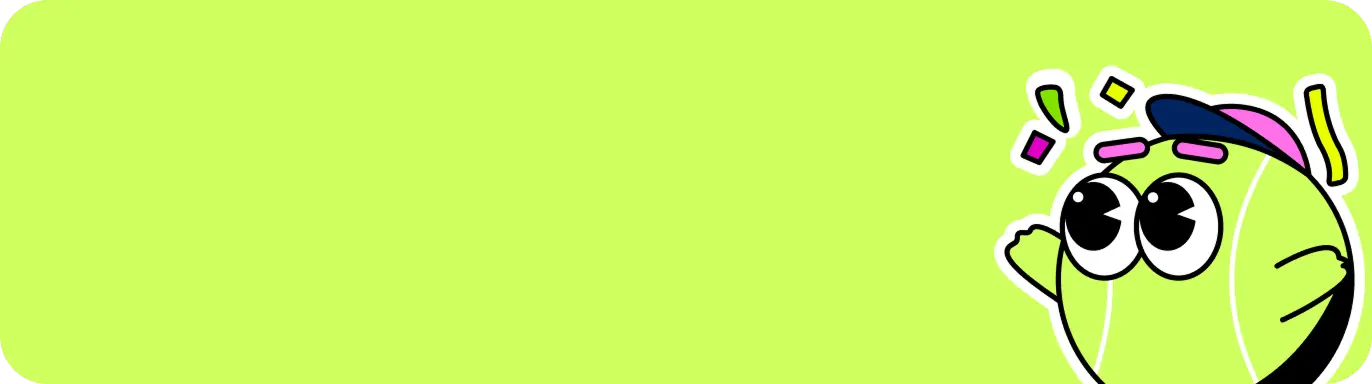
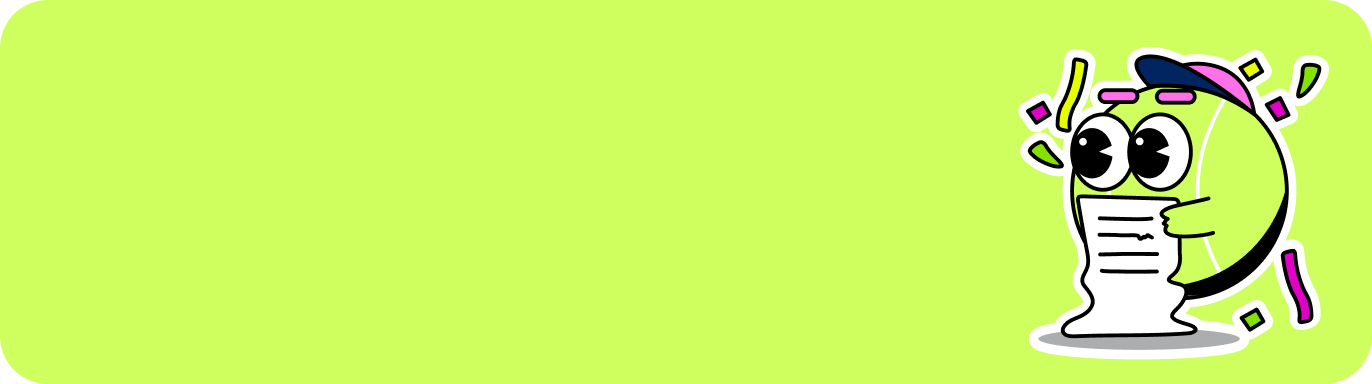
feat: 홈 디자인 수정 사항 반영 (#321)

Changed region(s): [[0.7041, 0.125, 1.0, 1.0]]

diff --git a/src/shared/components/card/match-card/components/card-profile-image.tsx b/src/shared/components/card/match-card/components/card-profile-image.tsx
@@ -4,6 +4,7 @@ import type { CardProfileProps } from '@components/card/match-card/types/card';
 import { normalizeUrls } from '@components/card/match-card/utils/normalize-urls';
 import Icon from '@components/icon/icon';
 import { cn } from '@libs/cn';
+import type { ReactNode } from 'react';
 
 export type ProfileType = CardProfileProps['type'];
 
@@ -40,9 +41,9 @@ const CardProfile = ({ type, imgUrl }: CardProfileProps) => {
             className="h-[2.8rem] w-[2.8rem] rounded-full object-cover"
           />
         ) : isEmptyTail ? (
-          <div className="h-[2.8rem] w-[2.8rem] rounded-full bg-gray-400" />
+          <div className="h-[2.8rem] w-[2.8rem] rounded-full bg-gray-300" />
         ) : (
-          <Icon size={2.8} name="profile" className="rounded-full" />
+          <Icon size={2.8} name="profile" className="rounded-full text-gray-black" />
         )}
       </div>
     );

diff --git a/src/shared/components/card/match-card/card.tsx b/src/shared/components/card/match-card/card.tsx
@@ -9,7 +9,7 @@ const Card = (props: CardProps) => {
   const { type, className, color } = props;
 
   const introductionClass = 'cap_14_m mt-[1.6rem]';
-  const gameInfoClass = 'mt-[0.4rem] py-[0.4rem]';
+  const gameInfoClass = 'mt-[1.2rem] ';
   const dividerClass = 'border-gray-300';
   const matchingRateClass = 'ml-auto';
 
@@ -23,7 +23,7 @@ const Card = (props: CardProps) => {
 
         {type !== 'user' && (
           <CardGameInfo
-            className={cn(type === 'single' && 'mt-[0.4rem]', gameInfoClass)}
+            className={cn(type === 'single' && 'mt-[1.2rem]', gameInfoClass)}
             awayTeam={props.awayTeam}
             homeTeam={props.homeTeam}
             stadium={props.stadium || ''}

diff --git a/src/pages/home/components/top-section.tsx b/src/pages/home/components/top-section.tsx
@@ -2,9 +2,8 @@ import CardBanner from '@components/card/banner-card/banner-card';
 
 const TopSection = () => {
   return (
-    <section className="bg-gray-black px-[1.6rem]">
-      <h2 className="head_20_sb mb-[1.6rem] text-gray-white">당신을 위한 맞춤형 매칭</h2>
-      <CardBanner subText="경기일 선택하고" text="나랑 딱 맞는 직관 메이트 찾자!" />
+    <section className="bg-gray-black px-[1.6rem] pt-[0.1rem]">
+      <CardBanner subText="나와 딱 맞는 직관 메이트를 찾고 싶다면?" text="이용가이드 보러 가기" />
     </section>
   );
 };

diff --git a/src/pages/home/components/calendar-button.tsx b/src/pages/home/components/calendar-button.tsx
@@ -8,10 +8,11 @@ const CalendarButton = ({ onOpenBottomSheet }: CalendarButtonProps) => {
   return (
     <button
       type="button"
-      className="h-[3.2rem] w-[3.2rem] flex-col-center cursor-pointer rounded-[8px] bg-gray-900"
+      className="flex h-[3.2rem] flex-row-center cursor-pointer gap-[0.8rem] rounded-[8px] bg-gray-900 p-[0.8rem]"
       onClick={onOpenBottomSheet}
     >
       <Icon name="calendar" size={2.4} className="text-gray-white" />
+      <h1 className="cap_14_sb text-gray-white">날짜 선택</h1>
     </button>
   );
 };

diff --git a/src/shared/components/card/banner-card/banner-card.tsx b/src/shared/components/card/banner-card/banner-card.tsx
@@ -11,7 +11,7 @@ const BannerCard = ({ text, subText, className }: CardBannerProps) => {
   return (
     <div className={cn('relative w-full', className)}>
       <img src={BannerImg} alt="홈배너" className="w-full" />
-      <div className="absolute inset-0 flex-col gap-[0.8rem] py-[2rem] pl-[2.4rem]">
+      <div className="absolute inset-0 flex-col gap-[0.4rem] py-[2rem] pl-[2.4rem]">
         <p className="cap_14_m text-gray-800">{subText}</p>
         <p className="subhead_18_sb text-gray-black">{text}</p>
       </div>

diff --git a/src/shared/components/card/match-card/styles/card-variants.ts b/src/shared/components/card/match-card/styles/card-variants.ts
@@ -22,10 +22,10 @@ export const cardVariants = cva('relative w-full rounded-[12px] bg-white', {
 export const profileVariants = cva('overflow-hidden rounded-full object-cover', {
   variants: {
     type: {
-      single: 'h-[6rem] w-[6rem]',
+      single: 'h-[6rem] w-[6rem] ',
       group: 'h-[2.8rem] w-[2.8rem]',
-      detailed: 'h-[8.2rem] w-[8.2rem]',
-      user: 'h-[8.2rem] w-[8.2rem]',
+      detailed: 'h-[8.2rem] w-[8.2rem] ',
+      user: 'h-[8.2rem] w-[8.2rem] ',
     },
   },
   defaultVariants: {
